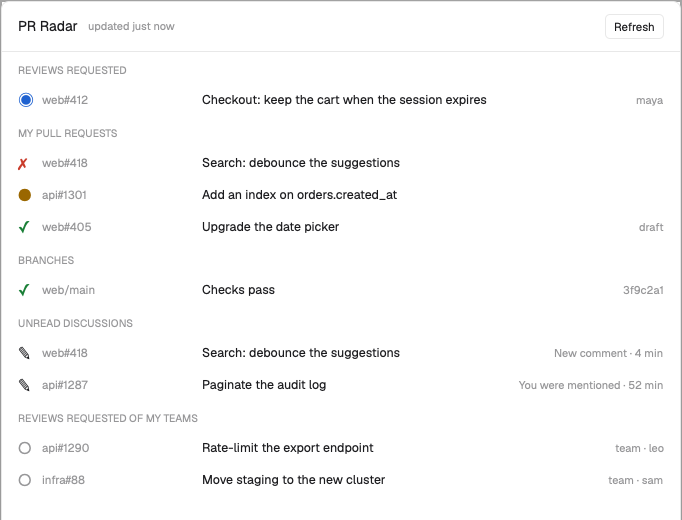
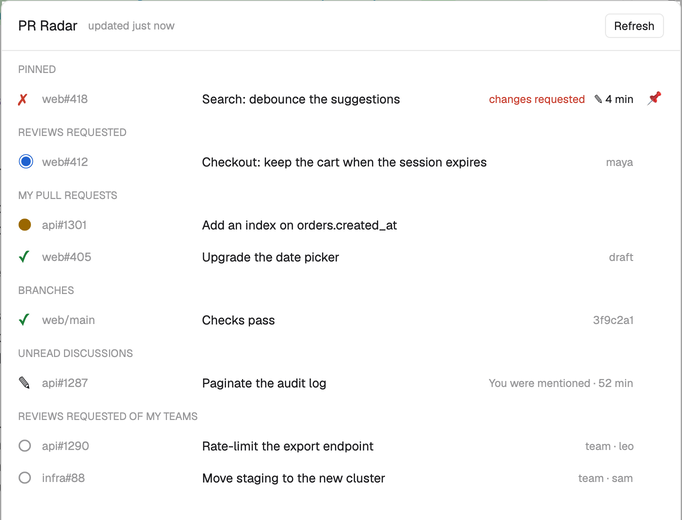
Show a pinned pull request in the screenshots
Demo mode now starts with acme/web#418 pinned, with changes requested, so the
preview shows the Pinned section and the badge its 📌 count. The demo pin is
only set when demo mode has no pins yet, so it can still be unpinned.

diff --git a/mods/pr-radar/main.js b/mods/pr-radar/main.js
@@ -4,7 +4,7 @@ import { exec, run, theme, props, shared, setShared, notify, playSound, openOver
 import { overview, discussions } from "./github.js";
 import { readConfig } from "./config.js";
 import { strings } from "./i18n.js";
-import { demoOverview, demoDiscussions } from "./demo.js";
+import { demoOverview, demoDiscussions, DEMO_PINS } from "./demo.js";
 
 // PR Radar: a badge for a status bar that keeps an eye on GitHub for you, through the gh CLI.
 // Put it in a layout block (never a window over the layout: an always-open window takes the
@@ -91,8 +91,9 @@ export default class PrRadar extends View {
     cx.spawn(async (cx) => {
       const prev = shared(this.stateKey) ?? {};
       try {
+        if (this.cfg.demo && shared(this.pinsKey) == null) setShared(this.pinsKey, DEMO_PINS);
         const [o, threads] = this.cfg.demo
-          ? [demoOverview(), demoDiscussions()]
+          ? [demoOverview(this.pins()), demoDiscussions()]
           : await Promise.all([overview(this.cfg, this.pins()), discussions(this.cfg)]);
         if (!this.cfg.demo) this.announce(o, threads);
         setShared(this.stateKey, { ...o, threads, at: Date.now(), error: this.cfg.problems[0] ?? null });

diff --git a/mods/pr-radar/demo.js b/mods/pr-radar/demo.js
@@ -6,7 +6,21 @@ const p = (repo, number, title, author, ci, extra = {}) => ({
   url: `https://github.com/${repo}/pull/${number}`, ...extra,
 });
 
-export const demoOverview = () => ({
+// What demo mode starts with pinned, and what the query would say of the pinned ones.
+export const DEMO_PINS = ["acme/web#418"];
+const DEMO_DECISIONS = { "acme/web#418": "changes" };
+
+export const demoOverview = (pins = []) => {
+  const o = demoLists();
+  const all = [...o.reviews, ...o.prs];
+  o.pinned = pins.map((key) => {
+    const p = all.find((x) => x.key === key);
+    return p ? { ...p, state: "open", decision: DEMO_DECISIONS[key] ?? null, last: null } : { key, unknown: true };
+  });
+  return o;
+};
+
+const demoLists = () => ({
   me: "you",
   reviews: [
     p("acme/web", 412, "Checkout: keep the cart when the session expires", "maya", "success", { team: false }),

diff --git a/RECIPE.md b/RECIPE.md
@@ -83,7 +83,7 @@ you), and a click on the badge opens a panel listing it all, each row a link to 
     `gh api graphql` exits 1 when part of the query fails (a pin or branch that's gone): the answer
     still counts when it has `data`, and a `NOT_FOUND` on a pin's alias unpins it. `gh api notifications?participating=true`, keeping pull requests in
     scope, without the `review_requested` and `ci_activity` reasons.
-  - `i18n.js`: English and French strings. `demo.js`: made-up data for `demo: true`.
+  - `i18n.js`: English and French strings. `demo.js`: made-up data for `demo: true`, starting with `acme/web#418` pinned (changes requested).
 - Herdr: `exec` (gh, open), `notify` with `action: { name: "pr-radar.open-<slot>" }`, `playSound`,
   `openOverlay` / `closeOverlay`, `shared` / `setShared`, `nextCommand`, `run("pr-radar.refresh")`,
   `theme`, `props`, `cx.timer.every`.
